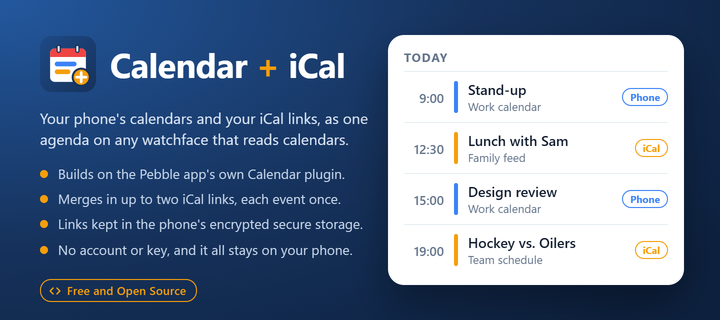
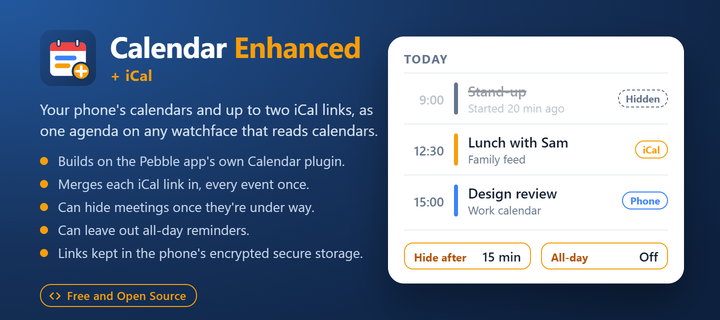
rename Calendar + iCal to Calendar Enhanced + iCal

diff --git a/plugins/calendar-ical/src/plugin/phone.ts b/plugins/calendar-ical/src/plugin/phone.ts
@@ -2,9 +2,9 @@
  * The phone's calendars, read through the Pebble app's built-in Calendar plugin.
  *
  * A plugin's script cannot read the phone's calendars itself, but it can read another plugin's source.
- * Naming the built-in by its uuid reaches it even while Calendar + iCal is the wearer's preferred
- * calendar, since the Pebble app never routes a plugin's read back to itself. The built-in serves the
- * calendars switched on in the Pebble app's own settings, at most 10 events over 7 days.
+ * Naming the built-in by its uuid reaches it even while Calendar Enhanced + iCal is the wearer's
+ * preferred calendar, since the Pebble app never routes a plugin's read back to itself. The built-in
+ * serves the calendars switched on in the Pebble app's own settings, at most 10 events over 7 days.
  */
 
 import type { CalendarEvent } from '../../paf/ts/calendar/ical';
@@ -27,10 +27,10 @@ function reason(error: unknown): string {
 /**
  * The phone's events, read from the built-in in the run that asks.
  *
- * The subscription is what has the Pebble app run Calendar + iCal again when the phone's calendars
- * change. The read waits for the built-in's latest update. A read the Pebble app refuses, such as
- * one the wearer has not allowed or one that times out, leaves the phone's part empty and the feeds
- * serve on their own.
+ * The subscription is what has the Pebble app run Calendar Enhanced + iCal again when the phone's
+ * calendars change. The read waits for the built-in's latest update. A read the Pebble app refuses,
+ * such as one the wearer has not allowed or one that times out, leaves the phone's part empty and the
+ * feeds serve on their own.
  *
  * @param pebble The plugin runtime's `Pebble`.
  * @param nowSeconds The time now, as epoch seconds.
@@ -43,7 +43,7 @@ export async function phoneEvents(pebble: PluginPebble, nowSeconds: number, offs
 
     return eventsFromUpdate(await pebble.readSource(BUILT_IN_EVENTS), nowSeconds, offsetAt);
   } catch (error) {
-    console.log(`Calendar + iCal: the phone's calendars could not be read, ${reason(error)}`);
+    console.log(`Calendar Enhanced + iCal: the phone's calendars could not be read, ${reason(error)}`);
     return [];
   }
 }

diff --git a/plugins/calendar-ical/src/plugin/phone.spec.ts b/plugins/calendar-ical/src/plugin/phone.spec.ts
@@ -2,9 +2,9 @@
  * Specs for reading the phone's calendars through the built-in.
  *
  * The built-in sends an all-day event in a different shape on each phone. Android sends UTC midnight
- * to UTC midnight, and an iPhone sends local midnight to 23:59:59 UTC on the last day. Calendar + iCal
- * serves one shape whichever phone it is on, so both have to come out on the same days. A refused read
- * must leave the feeds serving rather than fail the run.
+ * to UTC midnight, and an iPhone sends local midnight to 23:59:59 UTC on the last day. Calendar
+ * Enhanced + iCal serves one shape whichever phone it is on, so both have to come out on the same
+ * days. A refused read must leave the feeds serving rather than fail the run.
  *
  * The usual now is Wednesday 4 November 2026 at 12:00 in Toronto, which is UTC-5 then.
  */
@@ -61,7 +61,7 @@ async function servedDays(update: SourceEnvelope): Promise<Array<number | undefi
 }
 
 describe('phoneEvents', () => {
-  /** A face reading Calendar + iCal must see Friday's holiday on Friday, from either phone. */
+  /** A face reading Calendar Enhanced + iCal must see Friday's holiday on Friday, from either phone. */
   test.each([
     ['an Android', Date.UTC(2026, 10, 6) / 1000, Date.UTC(2026, 10, 7) / 1000],
     ['an iPhone', Date.UTC(2026, 10, 6, 5) / 1000, Date.UTC(2026, 10, 6, 23, 59, 59) / 1000],

diff --git a/plugins/calendar-ical/src/plugin/feeds.ts b/plugins/calendar-ical/src/plugin/feeds.ts
@@ -1,5 +1,5 @@
 /**
- * Calendar + iCal's two iCal feeds, each fetched again once its copy is older than the
+ * Calendar Enhanced + iCal's two iCal feeds, each fetched again once its copy is older than the
  * iCal Refresh Interval.
  *
  * The plugin has no timers. It runs cold whenever the Pebble app asks, about every five minutes, so
@@ -174,7 +174,7 @@ export async function feedEvents(feed: Feed, refreshMinutes: number, nowMs: numb
   try {
     events = ical.parseIcal(await fetchLink(cacheBust(link, nowMs)), Math.floor(nowMs / 1000), days);
   } catch (error) {
-    console.log(`Calendar + iCal: feed ${feed.slot} could not be fetched, ${failureOf(error)}`);
+    console.log(`Calendar Enhanced + iCal: feed ${feed.slot} could not be fetched, ${failureOf(error)}`);
   }
 
   if (!events) {
@@ -185,7 +185,7 @@ export async function feedEvents(feed: Feed, refreshMinutes: number, nowMs: numb
   try {
     storage.setItem(key, JSON.stringify({ link: stamp, fetchedMs: nowMs, days, events }));
   } catch (error) {
-    console.log(`Calendar + iCal: feed ${feed.slot} could not be kept, ${error}`);
+    console.log(`Calendar Enhanced + iCal: feed ${feed.slot} could not be kept, ${error}`);
   }
 
   return named(events, feed.name);

diff --git a/plugins/calendar-ical/src/plugin/serve.ts b/plugins/calendar-ical/src/plugin/serve.ts
@@ -1,5 +1,5 @@
 /**
- * Calendar + iCal's answer to the Pebble app, its agenda as the standard `calendar/event`
+ * Calendar Enhanced + iCal's answer to the Pebble app, its agenda as the standard `calendar/event`
  * source.
  *
  * Each run reads the settings, reads the phone and both feeds side by side, merges them, and serves
@@ -102,7 +102,7 @@ export async function agendaAnswer(context: ServeContext, nowMs: number): Promis
 }
 
 /**
- * Has the Pebble app ask Calendar + iCal for its agenda.
+ * Has the Pebble app ask Calendar Enhanced + iCal for its agenda.
  *
  * @param context Where each run reads from.
  * @param clock Reads the time now, normally `Date.now`.
@@ -114,7 +114,7 @@ export function handleSource(context: ServeContext, clock: () => number = Date.n
     try {
       respond.data(await agendaAnswer(context, nowMs));
     } catch (error) {
-      console.log(`Calendar + iCal: the agenda could not be built, ${error}`);
+      console.log(`Calendar Enhanced + iCal: the agenda could not be built, ${error}`);
       respond.error('PLUGIN_UNAVAILABLE', String(error));
     }
   });

diff --git a/watchfaces/calendar-test-demo/src/pkjs/plugin-watch.spec.ts b/watchfaces/calendar-test-demo/src/pkjs/plugin-watch.spec.ts
@@ -15,7 +15,7 @@ const WEATHER_ENHANCED = 'f62c8e74-dd3c-4157-abf0-9a49aaaaaaaa';
 
 const PLUGINS: PluginSummary[] = [
   { uuid: WEATHER_ENHANCED, name: 'Weather Enhanced', sources: [{ category: 'weather', items: ['location'] }] },
-  { uuid: 'c6b7d0a7-32b5-47f2-9839-becd04965da2', name: 'Calendar + iCal', sources: [{ category: 'calendar', items: ['event'] }] },
+  { uuid: 'c6b7d0a7-32b5-47f2-9839-becd04965da2', name: 'Calendar Enhanced + iCal', sources: [{ category: 'calendar', items: ['event'] }] },
 ];
 
 describe('describeProperty', () => {
@@ -86,7 +86,7 @@ describe('describePlugins', () => {
     expect(result).toEqual([
       'the phone lists 2 plugins',
       `  Weather Enhanced ${WEATHER_ENHANCED}: serves weather/location`,
-      '  Calendar + iCal c6b7d0a7-32b5-47f2-9839-becd04965da2: serves calendar/event',
+      '  Calendar Enhanced + iCal c6b7d0a7-32b5-47f2-9839-becd04965da2: serves calendar/event',
     ]);
   });
 });

diff --git a/watchfaces/stock-test-demo/src/pkjs/plugin-watch.spec.ts b/watchfaces/stock-test-demo/src/pkjs/plugin-watch.spec.ts
@@ -15,7 +15,7 @@ const WEATHER_ENHANCED = 'f62c8e74-dd3c-4157-abf0-9a49aaaaaaaa';
 
 const PLUGINS: PluginSummary[] = [
   { uuid: WEATHER_ENHANCED, name: 'Weather Enhanced', sources: [{ category: 'weather', items: ['location'] }] },
-  { uuid: 'c6b7d0a7-32b5-47f2-9839-becd04965da2', name: 'Calendar + iCal', sources: [{ category: 'calendar', items: ['event'] }] },
+  { uuid: 'c6b7d0a7-32b5-47f2-9839-becd04965da2', name: 'Calendar Enhanced + iCal', sources: [{ category: 'calendar', items: ['event'] }] },
 ];
 
 describe('describeProperty', () => {
@@ -86,7 +86,7 @@ describe('describePlugins', () => {
     expect(result).toEqual([
       'the phone lists 2 plugins',
       `  Weather Enhanced ${WEATHER_ENHANCED}: serves weather/location`,
-      '  Calendar + iCal c6b7d0a7-32b5-47f2-9839-becd04965da2: serves calendar/event',
+      '  Calendar Enhanced + iCal c6b7d0a7-32b5-47f2-9839-becd04965da2: serves calendar/event',
     ]);
   });
 });

diff --git a/watchfaces/weather-test-demo/src/pkjs/plugin-watch.spec.ts b/watchfaces/weather-test-demo/src/pkjs/plugin-watch.spec.ts
@@ -15,7 +15,7 @@ const WEATHER_ENHANCED = 'f62c8e74-dd3c-4157-abf0-9a49aaaaaaaa';
 
 const PLUGINS: PluginSummary[] = [
   { uuid: WEATHER_ENHANCED, name: 'Weather Enhanced', sources: [{ category: 'weather', items: ['location'] }] },
-  { uuid: 'c6b7d0a7-32b5-47f2-9839-becd04965da2', name: 'Calendar + iCal', sources: [{ category: 'calendar', items: ['event'] }] },
+  { uuid: 'c6b7d0a7-32b5-47f2-9839-becd04965da2', name: 'Calendar Enhanced + iCal', sources: [{ category: 'calendar', items: ['event'] }] },
 ];
 
 describe('describeProperty', () => {
@@ -86,7 +86,7 @@ describe('describePlugins', () => {
     expect(result).toEqual([
       'the phone lists 2 plugins',
       `  Weather Enhanced ${WEATHER_ENHANCED}: serves weather/location`,
-      '  Calendar + iCal c6b7d0a7-32b5-47f2-9839-becd04965da2: serves calendar/event',
+      '  Calendar Enhanced + iCal c6b7d0a7-32b5-47f2-9839-becd04965da2: serves calendar/event',
     ]);
   });
 });

diff --git a/plugins/calendar-ical/src/plugin/feeds.spec.ts b/plugins/calendar-ical/src/plugin/feeds.spec.ts
@@ -1,5 +1,5 @@
 /**
- * Specs for fetching and keeping Calendar + iCal's feeds.
+ * Specs for fetching and keeping Calendar Enhanced + iCal's feeds.
  *
  * The plugin runs every five minutes with no memory but storage, so whether a feed is fetched is
  * decided from its kept copy. Fetching too often spends the wearer's data on a feed that has not
@@ -211,7 +211,7 @@ describe('feedEvents', () => {
 
     await feedEvents(FEED, 30, NOW_MS, fetchLink, fakeStorage());
 
-    expect(logged.mock.calls.map((call) => String(call[0]))).toEqual(['Calendar + iCal: feed 1 could not be fetched, TypeError']);
+    expect(logged.mock.calls.map((call) => String(call[0]))).toEqual(['Calendar Enhanced + iCal: feed 1 could not be fetched, TypeError']);
     logged.mockRestore();
   });
 

diff --git a/plugins/calendar-ical/src/config/index.ts b/plugins/calendar-ical/src/config/index.ts
@@ -1,5 +1,5 @@
 /**
- * Calendar + iCal's settings page. The framework builds it into the pbw's config.html,
+ * Calendar Enhanced + iCal's settings page. The framework builds it into the pbw's config.html,
  * loads the saved settings from the plugin when it opens, and hands them back on Save.
  */
 
@@ -40,7 +40,7 @@ function warning(text: string): string {
 }
 
 export const clayConfig: ClayConfigItem[] = [
-  { type: 'heading', defaultValue: 'Calendar + iCal' },
+  { type: 'heading', defaultValue: 'Calendar Enhanced + iCal' },
   { type: 'text', defaultValue: "Serves your phone's calendars and up to two iCal links, merged into one agenda, to every watchface that reads calendar plugins." },
   {
     type: 'section',

diff --git a/plugins/calendar-ical/src/config/index.spec.ts b/plugins/calendar-ical/src/config/index.spec.ts
@@ -1,5 +1,5 @@
 /**
- * Specs for Calendar + iCal's settings page against the settings the plugin reads.
+ * Specs for Calendar Enhanced + iCal's settings page against the settings the plugin reads.
  *
  * The page and the plugin each take their defaults from settings.ts, and the plugin reads a setting
  * the wearer never saved as its default. A row opening on another value would show one thing and serve

diff --git a/plugins/calendar-ical/src/settings.ts b/plugins/calendar-ical/src/settings.ts
@@ -1,5 +1,5 @@
 /**
- * Calendar + iCal's settings, shared by its settings page and its plugin script, so the keys,
+ * Calendar Enhanced + iCal's settings, shared by its settings page and its plugin script, so the keys,
  * their defaults, and which ones are secret are written once.
  *
  * The two feed links are secret, since a private iCal link works like a password, so the plugin keeps

diff --git a/watchfaces/calendar-test-demo/src/pkjs/calendar-keys.spec.ts b/watchfaces/calendar-test-demo/src/pkjs/calendar-keys.spec.ts
@@ -115,7 +115,7 @@ describe('createAgendaNames', () => {
   test('adds nothing before an agenda has gone to the watch', () => {
     const names = createAgendaNames();
 
-    names.noticeSend({ 10: 'Calendar + iCal' }, keys);
+    names.noticeSend({ 10: 'Calendar Enhanced + iCal' }, keys);
 
     const result = names.extras({ instances: [instance('Hi', 0x6af61500, 'Work')] }, keys);
 
